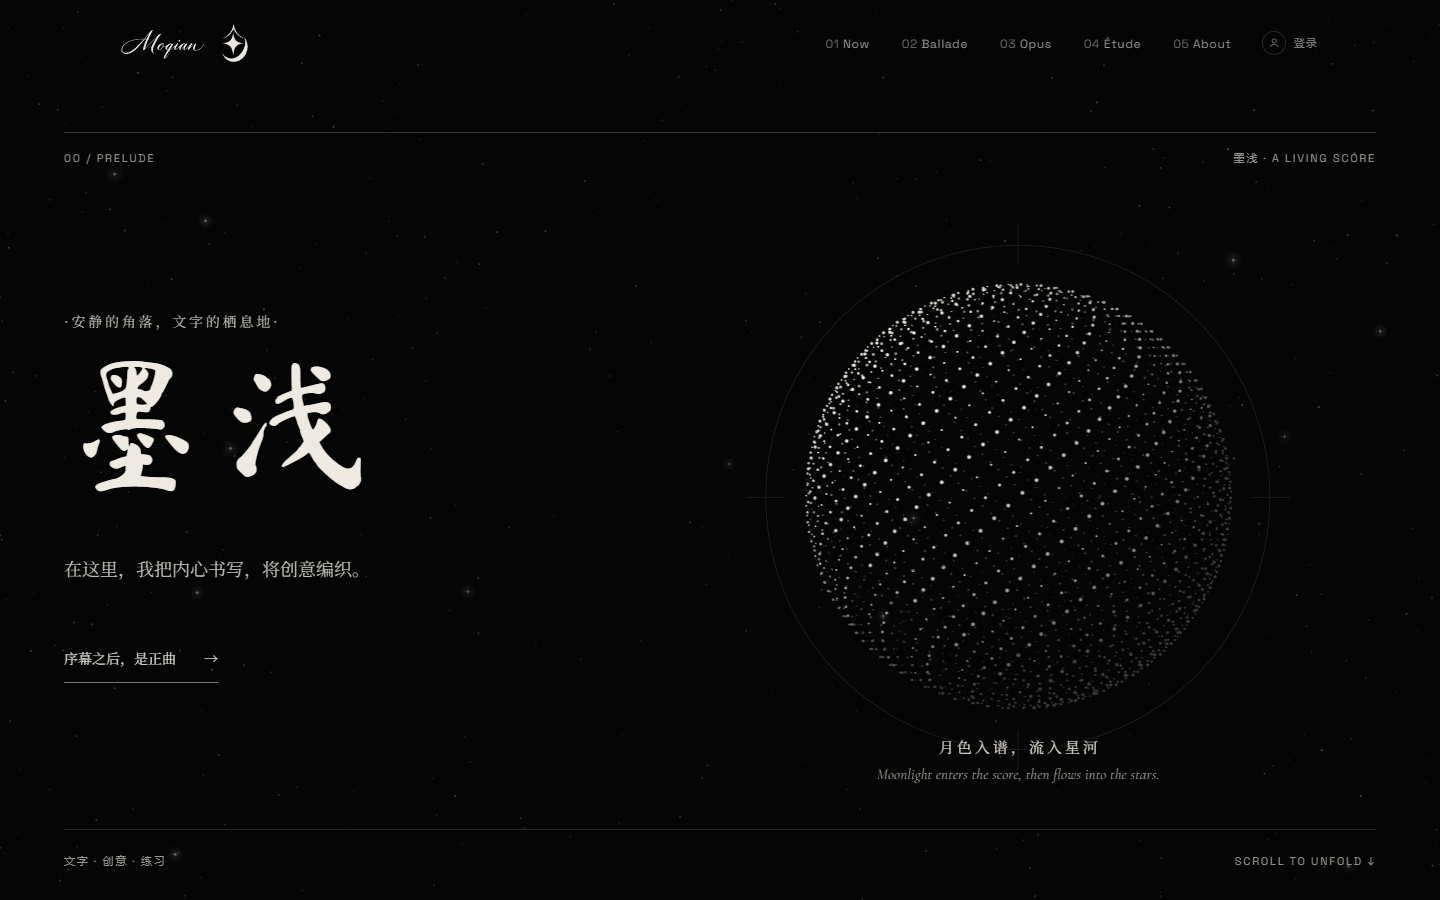
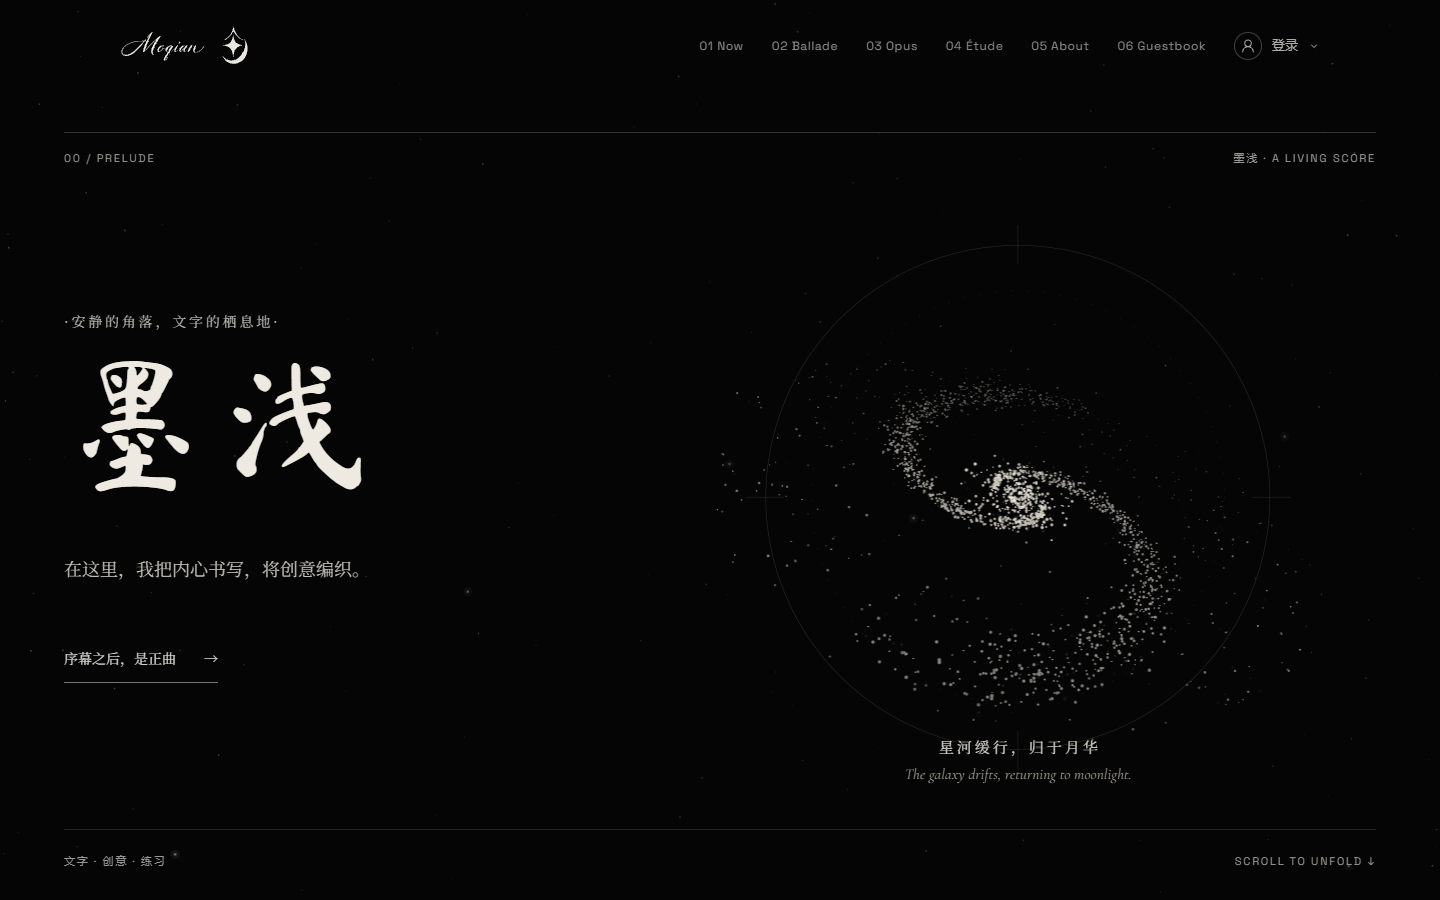
重写 README 的设计部分，并更新截图。
新增「设计」与「三个站点」两章：节目单概念、序幕的粒子月与乐谱、灰阶色彩与对比度、六种字体、版式细节、动效与可访问性、品牌，以及博客、笔记、手机端。博客首页的旧描述已按现状重写。截图由 6 张换成 23 张，含设计令牌图。

diff --git a/README.md b/README.md
@@ -1,55 +1,221 @@
 # 墨浅 · A living score
 
-安静的角落，文字的栖息地。主页、博客与笔记共用一套灰阶乐谱：细线、编号、星野，以及一枚可以展开成星河的月。
+安静的角落，文字的栖息地。主页、博客与笔记是同一件作品的三个乐章：一套灰阶的乐谱，细线、编号、星野，以及一枚可以展开成星河的月。
 
 [moqian.me](https://moqian.me/) · [博客](https://moqian.me/blog/) · [笔记](https://note.moqian.me/)
 
 <p>
-  <img src="docs/screenshots/prelude.png" alt="Prelude：墨浅与点阵月亮" width="100%">
+  <img src="docs/screenshots/prelude.png" alt="Prelude：墨浅二字、导航与展开为星河的粒子月亮" width="100%">
 </p>
 
-点月，粒子收拢后再展开为双旋臂星系。
+[设计](#设计) · [三个站点](#三个站点) · [留言与上传](#留言与上传) · [仓库](#仓库) · [本地](#本地) · [构建](#构建)
+
+## 设计
+
+### 一份节目单
+
+墨浅不想做简历，也不想做内容频道。它更像一本印好的音乐会节目单：先是署名，然后是曲目，页边留着谱子。界面里的每个栏目都用曲名来命名：
+
+| 曲名 | 是什么 | 说明 |
+| --- | --- | --- |
+| Prelude 序幕 | 首屏 | 一枚会变形的月：星河、月、五线谱 |
+| Now | 近况 | 头像、自我介绍，以及 Ballade / Étude / Opus 的释义 |
+| Ballade 叙事曲 | 博客 | 成篇的文章，在 `/blog/` |
+| Opus 作品 | 项目 | Sonata 是个人项目，Concerto 是进行中的事 |
+| Étude 练习曲 | 笔记 | 课程笔记与推导，正文在笔记站 |
+| Guestbook | 留言簿 | 访客可读；登录后写纯文本 |
+| Coda 尾声 | 页脚 | 字标与星月 |
+
+四条原则先于所有具体决定：
+
+1. **灰阶即规则。** 颜色是结构，不是装饰。需要强调，就沿灰阶往上走。
+2. **内容用衬线，注释用等宽。** 日期、序号、计数、说明，凡不是内容的东西，都用同一种小号的字距体。
+3. **发丝线做结构。** 分隔与边界只用 1px 的线；内容层不投影，几乎不圆角。
+4. **动效克制，并且可以关。** 动效是氛围与反馈，从不挡路。
+
+### 序幕：一枚会变形的月
+
+首屏只有一个主角：一团由 2400 个点组成的粒子（手机上是 800 个）。它在三种形态之间流动。
+
+<table>
+  <tr>
+    <td width="50%"><img src="docs/screenshots/prelude-1-galaxy.png" alt="粒子排成双旋臂星河" width="100%"></td>
+    <td width="50%"><img src="docs/screenshots/prelude-2-moon.png" alt="粒子收拢为点阵月亮" width="100%"></td>
+  </tr>
+  <tr>
+    <td><b>星河</b>　首屏默认。点一下收拢为月。</td>
+    <td><b>月</b>　点阵球面，光从左上方落下。</td>
+  </tr>
+  <tr>
+    <td width="50%"><img src="docs/screenshots/prelude-3-dissolve.png" alt="月的粒子正流向一组五线谱" width="100%"></td>
+    <td width="50%"><img src="docs/screenshots/prelude-4-score.png" alt="五线谱上浮起高音谱号与五个音符" width="100%"></td>
+  </tr>
+  <tr>
+    <td><b>入谱</b>　向下滚动，粒子脱离月的形状，流向谱线。</td>
+    <td><b>乐谱</b>　谱号浮起，音符依次升起。</td>
+  </tr>
+</table>
+
+- **月。** 点沿斐波那契球面均匀分布，背光面渐暗。约一成的点以 `+` 字符而不是圆点呈现，是 ASCII 月亮的回声。鼠标靠近时点会被轻轻推开，整颗月缓慢自转。
+- **星河。** 同一批点重新排布：约 14% 聚成核球，70% 沿两条对数螺线展开成旋臂，其余散作外晕，整体倾斜成斜视的盘面。
+- **乐谱。** 桌面端会把序幕钉住约两屏的高度，由滚动进度驱动变形：粒子先脱离月的形状，流向一组略微倾斜的五线谱，随后由一层 SVG 接手。五条谱线自左向右描出，高音谱号浮起，五个音符依次升起、符干生长，一束微光扫过谱号。
+
+变形发生在顶点着色器里。每个点带着自己的随机种子，并按它在谱线上的位置错开出发时间，所以看上去是点在流向目标，而不是整体淡入淡出。
+
+它也有退路：WebGL 不可用或上下文丢失时，序幕回到 ASCII 点阵月和静态 SVG 星系；运行中如果持续掉帧，先减少粒子并降低分辨率，仍不行才回退；页面隐藏或滚出视口时暂停渲染。切换月与星河时，读屏会播报当前状态；第一次访问，月下会淡出一行「轻触月相」，点过之后不再出现。
+
+### 色彩：灰阶教条
+
+整套站点没有色相。底是 `#050505`，前景是暖白 `#E9E6DF`：文字与月光出自同一光源，所以前景不会飘回冷灰白。
 
 <p>
-  <img src="docs/screenshots/galaxy.png" alt="同一舞台展开后的星河" width="100%">
+  <img src="docs/screenshots/design-palette.png" alt="设计令牌：底与结构的六级灰，以及文字的五级灰与对比度" width="100%">
 </p>
 
-## 曲式
+- 需要强调时，沿灰阶上移：dim → muted → fg → 纯白。纯白只在悬停时出现，是整套系统里最响的一声。
+- `#8C8A85`（对比度 5.9:1）是可读文字的下限，用于日期、计数这类元信息。`#555` 及更暗的灰只做装饰：分隔符、乐谱说明、`aria-hidden` 的点缀。
+- 结构只靠 1px 的 `#1A1A1A` 发丝线，悬停时升到 `#404040`；深浅层次来自 `#050505 → #0A0A0A → #0D0D0D` 三步底色。
+- 例外集中在几处：笔记站阅读区的 wiki 链接与引用线用一点暖铜（`#D4A574` / `#C8956C`），让长文里的链接可辨；笔记站的纯色背景可选靛蓝、松绿；登录按钮里的 Google 图标保留品牌色；留言簿的错误提示用褪色的红。
 
-| 乐章 | 内容 |
-| --- | --- |
-| Prelude | 首屏。WebGL 点阵月，点击展开星河；无 WebGL 或减少动效时回到 ASCII 月与静态星系 |
-| Now | 近况。原色头像、姓名，以及 Ballade / Étude / Opus 的释义 |
-| Ballade | 成篇文章。博客在 `/blog/`，卡片网格、检索与分类 |
-| Opus | 作品。Sonata 为个人项目，Concerto 为正在进行的事 |
-| Étude | 课程笔记与推导。首页一枚分类星图，正文在笔记站 |
-| Guestbook | 留言簿。访客可读；登录后写纯文本，作者与超管可删除 |
-| Coda | 页脚字标与星月 |
+### 字体：六种声音
 
 <p>
-  <img src="docs/screenshots/now.png" alt="Now：头像与自我介绍" width="49%">
-  <img src="docs/screenshots/opus.png" alt="Opus：作品列表与预览" width="49%">
+  <img src="docs/screenshots/design-type.png" alt="字体样张：字标、书法、展示、正文、文楷与标记" width="100%">
 </p>
 
-## 博客与笔记
+| 声音 | 字体 | 用在哪里 |
+| --- | --- | --- |
+| 字标 | 手写 Moqian，SVG 轮廓 | 页眉与页脚 |
+| 书法 | Ma Shan Zheng，只含「墨」「浅」两字的子集 | 序幕大字 |
+| 展示 | Cormorant Garamond，斜体 | 栏目曲名：Ballade、Étude、Opus |
+| 正文 | Noto Serif SC | 标题与正文，正文行高 1.9 |
+| 文楷 | LXGW WenKai | 页脚「静水深流」与引文 |
+| 标记 | Space Grotesk，字距 0.12–0.22em | 日期、计数、序号、说明 |
 
-博客是一份节目单：左侧分类，右侧按时间编号，页脚留着肖邦《叙事曲》的谱影。
+标记体是整套排版的暗线。它很小，桌面不低于 11px，手机不低于 10px，但处处都在：节标题前的 `03 —— 作品 · SELECTED WORKS`，博客的期号，笔记的分类计数。
+
+### 版式与细节
+
+<table>
+  <tr>
+    <td width="50%"><img src="docs/screenshots/home-now.png" alt="Now：头像、自我介绍与 mottos.txt" width="100%"></td>
+    <td width="50%"><img src="docs/screenshots/home-ballade.png" alt="Ballade：带编号的文章列表" width="100%"></td>
+  </tr>
+  <tr>
+    <td><b>Now</b>　一块像文本编辑器的 <code>mottos.txt</code>，逐字打出引文。</td>
+    <td><b>Ballade</b>　编号、标题、摘要，没有卡片。</td>
+  </tr>
+  <tr>
+    <td width="50%"><img src="docs/screenshots/home-opus.png" alt="Opus：Sonata 项目列表与预览" width="100%"></td>
+    <td width="50%"><img src="docs/screenshots/home-etude.png" alt="Étude：分类星图与最近练习" width="100%"></td>
+  </tr>
+  <tr>
+    <td><b>Opus</b>　左边选，右边看；预览是斜置五线谱上的一个大写首字母。</td>
+    <td><b>Étude</b>　一枚分类星图，把笔记连回分类。</td>
+  </tr>
+</table>
+
+- **谱影。** 各栏目的角落里压着真实乐谱的剪影：肖邦《叙事曲》与《黑键》练习曲、李斯特《匈牙利狂想曲》、贝多芬《月光》奏鸣曲、柴可夫斯基第一钢琴协奏曲。不透明度只有 13%–16%，向角落渐隐，位于内容之下。进入视口时谱线先从一端擦出，音符再浮起，曲目写在角落里。
+- **编号。** 主页的节标题是 `03 —— 作品 · SELECTED WORKS`，列表前缀是 `01 02 03`，博客用斜体期号 `No. 03`。目录是有顺序的。
+- **点线引导。** 分类名与数量之间用一条点线连起来，像节目单上的曲目与页码。
+- **不投影，几乎不圆角。** 层次靠底色的明暗和发丝线。头像与浮出页面的账户菜单是主要的例外。
+- **Étude 星图。** 主页上的分类星图只取最新五篇笔记，悬停星点时，右侧列表里对应的一行同步高亮；它对读屏隐藏，由旁边的列表承担全部信息。手机上整张星图收起，只留列表。
+
+### 动效与可访问性
+
+- **滚动。** Lenis 平滑滚动，GSAP ScrollTrigger 负责节标题的淡入上升与列表的错峰出现；导航随滚动高亮当前一节。
+- **减少动效。** 跟随系统，也可在页脚手动开关。开启后序幕不再钉住、不再加载 WebGL，月与星系变成静态图形，星空静止，笔记站的背景降为纯色。
+- **三档画质。** 只有桌面（宽度 ≥ 1024px 且指针精细）才启用钉住的序幕；手机减少粒子数与分辨率；静态档什么都不播放。
+- **光标。** 自定义十字光标只出现在精细指针的设备上；输入框始终是文本光标，触屏不受影响。
+- **星空。** 主页与博客的背景是一层共享的 Canvas 星空，帧率上限 30fps，页面隐藏时暂停。
+- **读屏与键盘。** 月与星河的切换是 `aria-pressed` 按钮，并有播报；Étude 每篇笔记只占一个 Tab 停点；笔记图谱附带「可访问列表」；焦点环清晰可见；导航与主要按钮的触控区为 44px。
+
+### 品牌
+
+<p align="center">
+  <img src="docs/screenshots/home-coda.png" alt="Coda：静水深流、星月图形与 Moqian 字标" width="66%">
+</p>
+
+字标取自一笔手写的 Moqian，矢量化为轮廓，运行时不依赖任何字体文件。首次进入视口时先描出轮廓，再从左到右显出墨色。星月图形由尖顶光芒、长尾四芒星和右下承托的新月构成，入场动画叫「月托星升」，共 1650ms：月牙先托起，星芒与顶部光芒随后依次升起、落定。作者署名 Y.I.A. 在 Now 一节里会逐字变形，在缩写、拼音与含义（Yearning · Ingenious · Astute）三种写法之间流转。
+
+## 三个站点
+
+三个站点各自独立构建、部署，只在设计语言上相互引用。
+
+### 博客 · Ballade
 
 <p>
-  <img src="docs/screenshots/blog.png" alt="Ballade：博客列表" width="100%">
+  <img src="docs/screenshots/blog-index.png" alt="Ballade：刊头、目录与最新一篇" width="100%">
 </p>
 
-笔记站独立部署在 `note.moqian.me`。桌面进入分类图谱，点开分类才展开笔记；移动端直接打开最新一篇。正文支持 Markdown、KaTeX 与 `[[wiki link]]`。
+- **刊头。** 斜体曲名、一句话，三栏统计（篇目、分类、最近），下面是一条五线谱式的分隔线。
+- **目录。** 一行检索，加上带计数的分类标签，按时间倒序。
+- **最新一篇。** 占一张宽卡，标题以冒号为界，前半粗体、后半放轻，右侧列出期号、分类、日期与标签；其余文章进入两列卡片网格。检索或筛选时不再突出最新一篇，免得误导结果。
+文章页是单栏阅读，最宽 720px，页首只有一行小字：日期、分类、标签。支持 Markdown、表格、引用、KaTeX 与 `[[wiki link]]`，可选封面横幅，页脚有 RSS。
+
+<p>
+  <img src="docs/screenshots/blog-article.png" alt="文章页：单栏阅读" width="100%">
+</p>
+
+### 笔记 · Étude
+
+笔记站独立部署在 `note.moqian.me`。桌面进入分类图谱，点开分类才展开笔记；手机直接打开最新一篇。
+
+<p>
+  <img src="docs/screenshots/note-graph.png" alt="离散数学分类的笔记图谱，悬停节点时邻居高亮" width="100%">
+</p>
+
+- **图谱。** 实心圆是笔记，虚线圆是尚未解析的 `[[wiki link]]`，圆的大小随链接数。悬停一个节点，它的邻居保持明亮，其余淡出。可拖拽、缩放，也可以展开「可访问列表」。
+- **侧栏。** 顶部是一枚按当天日期实算的月相。
+- **阅读区。** KaTeX 公式、表格、引用块，以及可点击的 `[[wiki link]]`。
+
+<p>
+  <img src="docs/screenshots/note-reader.png" alt="笔记阅读页：KaTeX 公式与表格" width="100%">
+</p>
+
+- **四种背景。** 右上角可切换：月夜（水面涟漪，WebGL 着色器，默认）、丝流（流场，WebGL）、雨窗（Canvas 雨滴）、纯色（墨色、靛蓝、松绿……）。
+
+<table>
+  <tr>
+    <td width="50%"><img src="docs/screenshots/note-bg-moonlit.png" alt="月夜背景" width="100%"></td>
+    <td width="50%"><img src="docs/screenshots/note-bg-silk.png" alt="丝流背景" width="100%"></td>
+  </tr>
+  <tr>
+    <td align="center">月夜</td>
+    <td align="center">丝流</td>
+  </tr>
+  <tr>
+    <td width="50%"><img src="docs/screenshots/note-bg-rain.png" alt="雨窗背景" width="100%"></td>
+    <td width="50%"><img src="docs/screenshots/note-bg-solid.png" alt="靛蓝纯色背景" width="100%"></td>
+  </tr>
+  <tr>
+    <td align="center">雨窗</td>
+    <td align="center">纯色 · 靛蓝</td>
+  </tr>
+</table>
+
+### 手机
+
+同一套设计收成单栏：序幕里月在上、字在下；博客的统计移到标题下方；笔记的侧栏变成抽屉，宽表格在框内横向滚动。
+
+<table>
+  <tr>
+    <td width="33%"><img src="docs/screenshots/mobile-prelude.png" alt="手机上的序幕" width="100%"></td>
+    <td width="33%"><img src="docs/screenshots/mobile-blog.png" alt="手机上的博客" width="100%"></td>
+    <td width="33%"><img src="docs/screenshots/mobile-note.png" alt="手机上的笔记" width="100%"></td>
+  </tr>
+  <tr>
+    <td align="center">Prelude</td>
+    <td align="center">Ballade</td>
+    <td align="center">Étude</td>
+  </tr>
+</table>
 
 ## 留言与上传
 
 首页留言簿在 About 与页脚之间，锚点是 `#guestbook`。不必登录就能阅读。登录后可以留下 1–500 字的纯文本，换行会保留，内容按文本显示。作者可以删除自己的留言，超管可以删除任意一条。列表从新到旧，每次 20 条。
 
 超管登录后，账户菜单会打开上传页：博客是 `http://localhost:3000/blog/admin/upload`，笔记是 `http://localhost:3001/admin/upload`。上传的是一个文件夹，里面要有 `index.md`，图片与它放在一起。保存后由 Site API 发布公开内容，不必为每一篇重新构建页面。`draft: true` 只保存，不公开。已有 slug 不会被覆盖。接口、CSRF 与留言限流见 [`Site-api/README.md`](./Site-api/README.md)。
-
-<p>
-  <img src="docs/screenshots/etude.png" alt="Étude：首页上的笔记星图与最近练习" width="100%">
-</p>
 
 ## 仓库
 
@@ -62,8 +228,9 @@
 | `Blog/` | 博客，`base: /blog/` | http://localhost:3000/blog/ |
 | `Note/` | 笔记，独立域名 | http://localhost:3001/ |
 | `Site-api/` | 登录、留言与内容发布 | http://localhost:8787/ |
-| `Opus/posts/` | 博客 Markdown，不入库 | — |
-| `Notes/` | 笔记 Markdown，不入库 | — |
+| `shared/` | 字标、星月、动效、账户与上传组件、星空，由脚本同步进各站 | — |
+| `Opus/posts/` | 博文内容仓库的本地检出目录 | — |
+| `Notes/` | 笔记内容仓库的本地检出目录 | — |
 
 主页开发服务把 `/blog/*` 代理到 `3000`。博客和笔记的文章索引、图片、最近内容与 RSS 由 Site API 动态提供；上传成功后自动生成并发布内容，无需每篇都重建页面。
 
@@ -119,7 +286,7 @@ Copy-Item New/app/dist/* Home/ -Recurse -Force
 
 ## 技术
 
-React 19 · Vite 7 · TypeScript · Tailwind。主页用 GSAP、Lenis、Three.js 与粒子背景。博客用 React Markdown 与 KaTeX。笔记用 D3 图谱。共享字标与动效在 `shared/`，由同步脚本写入三站。
+React 19 · Vite 7 · TypeScript · Tailwind。主页用 GSAP、Lenis、Three.js 与共享的 Canvas 星空。博客用 React Markdown 与 KaTeX。笔记用 D3 图谱与 WebGL / Canvas 背景。共享字标与动效在 `shared/`，由同步脚本写入各站。
 
 ## 许可
 
